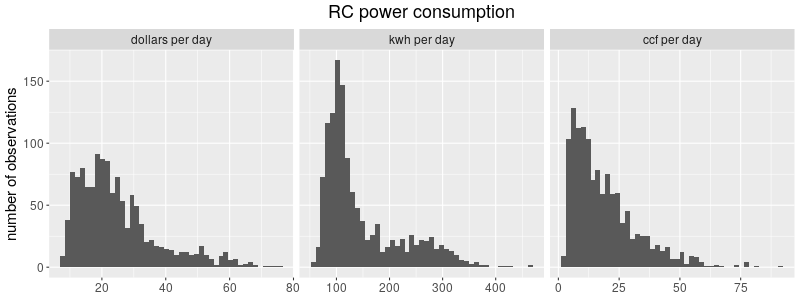
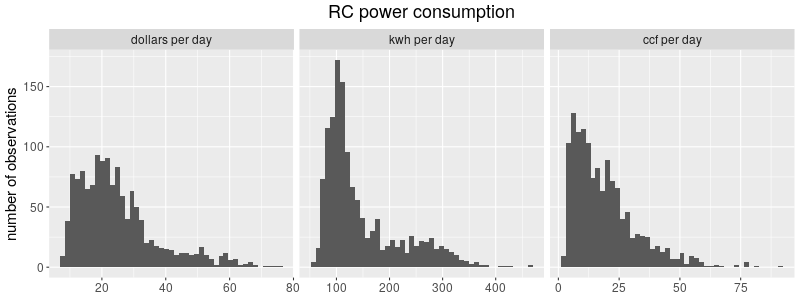
auto commit

diff --git a/index.html b/index.html
@@ -3,12 +3,12 @@
 "http://www.w3.org/TR/xhtml1/DTD/xhtml1-strict.dtd">
 <html xmlns="http://www.w3.org/1999/xhtml" lang="en" xml:lang="en">
 <head>
-<!-- 2020-11-15 Sun 10:45 -->
+<!-- 2021-01-25 Mon 16:30 -->
 <meta http-equiv="Content-Type" content="text/html;charset=utf-8" />
 <meta name="viewport" content="width=device-width, initial-scale=1" />
 <title>Chapin Mill Energy</title>
 <meta name="generator" content="Org mode" />
-<meta name="author" content=" @@latex:\mbox{}@@" />
+<meta name="author" content="@@latex:\mbox{}@@" />
 <style type="text/css">
  <!--/*--><![CDATA[/*><!--*/
   .title  { text-align: center;
@@ -40,7 +40,7 @@
   }
   pre.src {
     position: relative;
-    overflow: auto;
+    overflow: visible;
     padding-top: 1.2em;
   }
   pre.src:before {
@@ -194,26 +194,50 @@
   /*]]>*/-->
 </style>
 <script type="text/javascript">
-// @license magnet:?xt=urn:btih:e95b018ef3580986a04669f1b5879592219e2a7a&dn=public-domain.txt Public Domain
+/*
+@licstart  The following is the entire license notice for the
+JavaScript code in this tag.
+
+Copyright (C) 2012-2020 Free Software Foundation, Inc.
+
+The JavaScript code in this tag is free software: you can
+redistribute it and/or modify it under the terms of the GNU
+General Public License (GNU GPL) as published by the Free Software
+Foundation, either version 3 of the License, or (at your option)
+any later version.  The code is distributed WITHOUT ANY WARRANTY;
+without even the implied warranty of MERCHANTABILITY or FITNESS
+FOR A PARTICULAR PURPOSE.  See the GNU GPL for more details.
+
+As additional permission under GNU GPL version 3 section 7, you
+may distribute non-source (e.g., minimized or compacted) forms of
+that code without the copy of the GNU GPL normally required by
+section 4, provided you include this license notice and a URL
+through which recipients can access the Corresponding Source.
+
+
+@licend  The above is the entire license notice
+for the JavaScript code in this tag.
+*/
 <!--/*--><![CDATA[/*><!--*/
-     function CodeHighlightOn(elem, id)
-     {
-       var target = document.getElementById(id);
-       if(null != target) {
-         elem.classList.add("code-highlighted");
-         target.classList.add("code-highlighted");
-       }
-     }
-     function CodeHighlightOff(elem, id)
-     {
-       var target = document.getElementById(id);
-       if(null != target) {
-         elem.classList.remove("code-highlighted");
-         target.classList.remove("code-highlighted");
-       }
-     }
-    /*]]>*///-->
-// @license-end
+ function CodeHighlightOn(elem, id)
+ {
+   var target = document.getElementById(id);
+   if(null != target) {
+     elem.cacheClassElem = elem.className;
+     elem.cacheClassTarget = target.className;
+     target.className = "code-highlighted";
+     elem.className   = "code-highlighted";
+   }
+ }
+ function CodeHighlightOff(elem, id)
+ {
+   var target = document.getElementById(id);
+   if(elem.cacheClassElem)
+     elem.className = elem.cacheClassElem;
+   if(elem.cacheClassTarget)
+     target.className = elem.cacheClassTarget;
+ }
+/*]]>*///-->
 </script>
 <script type="text/x-mathjax-config">
     MathJax.Hub.Config({
@@ -241,13 +265,13 @@
 <body>
 <div id="content">
 <h1 class="title">Chapin Mill Energy</h1>
-<div id="outline-container-org0506443" class="outline-2">
-<h2 id="org0506443">Energy Comparisons</h2>
-<div class="outline-text-2" id="text-org0506443">
+<div id="outline-container-orgfcf976f" class="outline-2">
+<h2 id="orgfcf976f">Energy Comparisons</h2>
+<div class="outline-text-2" id="text-orgfcf976f">
 </div>
-<div id="outline-container-org387a536" class="outline-3">
-<h3 id="org387a536">Energy Consumption and Weather</h3>
-<div class="outline-text-3" id="text-org387a536">
+<div id="outline-container-orgffb2d4a" class="outline-3">
+<h3 id="orgffb2d4a">Energy Consumption and Weather</h3>
+<div class="outline-text-3" id="text-orgffb2d4a">
 <p>
 The plot below describes outdoor air temperatures and the rate of
 retreat center energy consumption for the past few months. These
@@ -284,7 +308,7 @@ energy consumption.
 </p>
 
 
-<div id="org9e3a254" class="figure">
+<div class="figure">
 <p><img src="energy.png" alt="energy.png" />
 </p>
 </div>
@@ -299,17 +323,17 @@ dollar cost&#x2014;over all times of the year and over all events.
 </p>
 
 
-<div id="org38f37a9" class="figure">
+<div class="figure">
 <p><img src="hist.png" alt="hist.png" />
 </p>
 </div>
 
 <p>
 To be slightly more precise, 95% of the time the observed
-electricity power consumption was less than <code>303</code>
+electricity power consumption was less than <code>300</code>
 kWh per day, gas consumption was less than
-<code>46</code> hundred cubic feet per day and the
-overall energy cost was less than <code>53</code> dollars per
+<code>45</code> hundred cubic feet per day and the
+overall energy cost was less than <code>52</code> dollars per
 day.
 </p>
 
@@ -336,7 +360,7 @@ within 45 and 60 dollars.
 </p>
 
 
-<div id="org506f82e" class="figure">
+<div class="figure">
 <p><img src="regime.png" alt="regime.png" />
 </p>
 </div>
@@ -366,7 +390,7 @@ heated for sesshin setup.)
 </p>
 
 
-<div id="org8634c9f" class="figure">
+<div class="figure">
 <p><img src="energy2.png" alt="energy2.png" />
 </p>
 </div>
@@ -382,7 +406,7 @@ value is the average of the temperature readings over that period.
 </p>
 
 
-<div id="org61b3f10" class="figure">
+<div class="figure">
 <p><img src="scatter.png" alt="scatter.png" />
 </p>
 </div>
@@ -396,9 +420,9 @@ the results would not be very interesting.
 </div>
 </div>
 
-<div id="outline-container-org0253652" class="outline-3">
-<h3 id="org0253652">Natural gas</h3>
-<div class="outline-text-3" id="text-org0253652">
+<div id="outline-container-orgaa3caf6" class="outline-3">
+<h3 id="orgaa3caf6">Natural gas</h3>
+<div class="outline-text-3" id="text-orgaa3caf6">
 <p>
 For a given level of occupancy of the retreat center it would be
 natural to consider gas consumption as consisting of two parts:
@@ -504,16 +528,16 @@ predictions for times that are either idle, sesshin, SIMT or UR.)
 </p>
 
 
-<div id="orgc9f73f4" class="figure">
+<div class="figure">
 <p><img src="diagnostic.png" alt="diagnostic.png" />
 </p>
 </div>
 </div>
 </div>
 
-<div id="outline-container-orgd0a5271" class="outline-3">
-<h3 id="orgd0a5271">Electricity</h3>
-<div class="outline-text-3" id="text-orgd0a5271">
+<div id="outline-container-org95a42f5" class="outline-3">
+<h3 id="org95a42f5">Electricity</h3>
+<div class="outline-text-3" id="text-org95a42f5">
 <p>
 For the period under consideration electricity usage did not vary
 with outside air temperature in a significant way. The data only
@@ -588,9 +612,9 @@ dollars respectively.
 </div>
 </div>
 
-<div id="outline-container-org5fc23f8" class="outline-2">
-<h2 id="org5fc23f8">Details</h2>
-<div class="outline-text-2" id="text-org5fc23f8">
+<div id="outline-container-org3b45e9e" class="outline-2">
+<h2 id="org3b45e9e">Details</h2>
+<div class="outline-text-2" id="text-org3b45e9e">
 <p>
 The natural gas model is
 \[
@@ -785,8 +809,8 @@ where \(y\) is electricity consumption in kWh per day and the
 </div>
 </div>
 <div id="postamble" class="status">
-<p class="date">Created: 2020-11-15 Sun 10:45</p>
-<p class="validation"><a href="https://validator.w3.org/check?uri=referer">Validate</a></p>
+<p class="date">Created: 2021-01-25 Mon 16:30</p>
+<p class="validation"><a href="http://validator.w3.org/check?uri=referer">Validate</a></p>
 </div>
 </body>
 </html>
